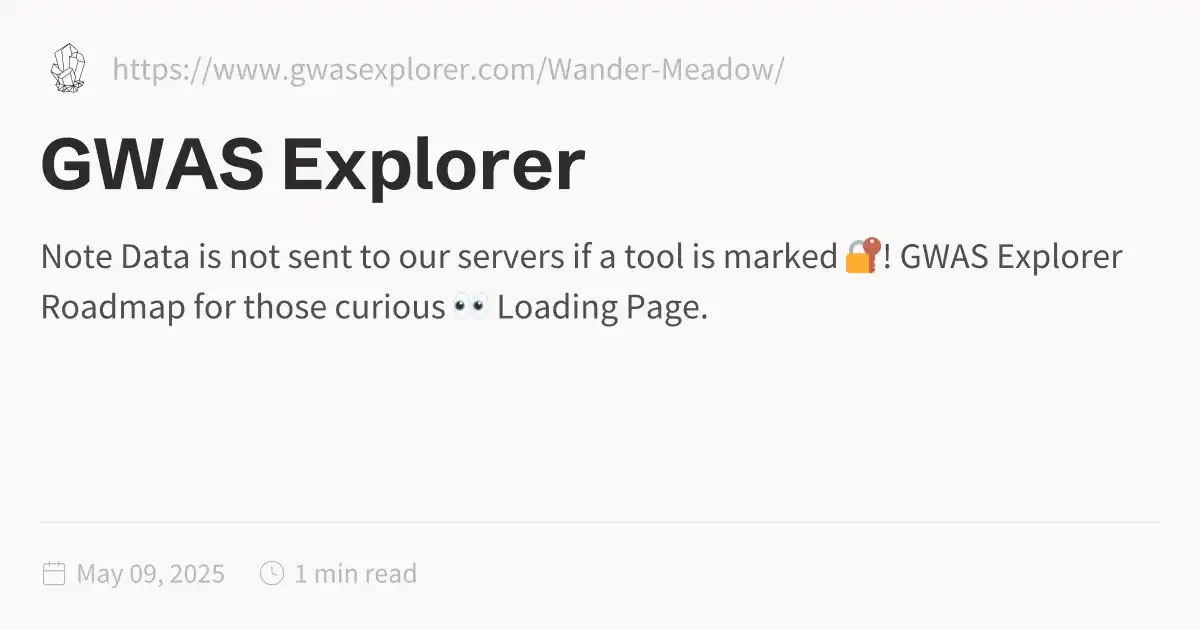
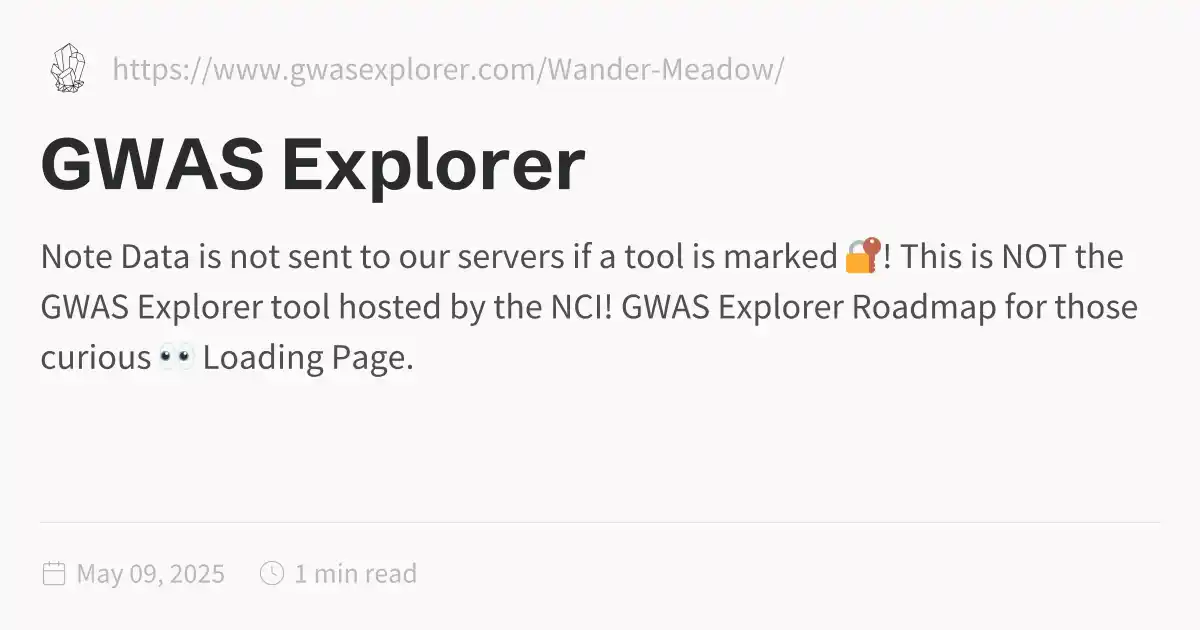
Update public folder - 2025-05-09\_2016

Changed region(s): [[0.0308, 0.4524, 0.9558, 0.5127], [0.0308, 0.5429, 0.3392, 0.6032], [0.74, 0.3619, 0.9558, 0.4222]]

diff --git a/Projects/index.html b/Projects/index.html
@@ -116,6 +116,6 @@ pre:hover > .expand-button {
   padding: 0 12px;
   font-size: 14px;
 }
[2 lines of base64/hex data omitted]
 </script><script type="module">function f(i,e){if(!i)return;function r(o){o.target===this&&(o.preventDefault(),o.stopPropagation(),e())}function t(o){o.key.startsWith("Esc")&&(o.preventDefault(),e())}i?.addEventListener("click",r),window.addCleanup(()=>i?.removeEventListener("click",r)),document.addEventListener("keydown",t),window.addCleanup(()=>document.removeEventListener("keydown",t))}function y(i){for(;i.firstChild;)i.removeChild(i.firstChild)}var h=class{constructor(e,r){this.container=e;this.content=r;this.setupEventListeners(),this.setupNavigationControls(),this.resetTransform()}isDragging=!1;startPan={x:0,y:0};currentPan={x:0,y:0};scale=1;MIN_SCALE=.5;MAX_SCALE=3;cleanups=[];setupEventListeners(){let e=this.onMouseDown.bind(this),r=this.onMouseMove.bind(this),t=this.onMouseUp.bind(this),o=this.resetTransform.bind(this);this.container.addEventListener("mousedown",e),document.addEventListener("mousemove",r),document.addEventListener("mouseup",t),window.addEventListener("resize",o),this.cleanups.push(()=>this.container.removeEventListener("mousedown",e),()=>document.removeEventListener("mousemove",r),()=>document.removeEventListener("mouseup",t),()=>window.removeEventListener("resize",o))}cleanup(){for(let e of this.cleanups)e()}setupNavigationControls(){let e=document.createElement("div");e.className="mermaid-controls";let r=this.createButton("+",()=>this.zoom(.1)),t=this.createButton("-",()=>this.zoom(-.1)),o=this.createButton("Reset",()=>this.resetTransform());e.appendChild(t),e.appendChild(o),e.appendChild(r),this.container.appendChild(e)}createButton(e,r){let t=document.createElement("button");return t.textContent=e,t.className="mermaid-control-button",t.addEventListener("click",r),window.addCleanup(()=>t.removeEventListener("click",r)),t}onMouseDown(e){e.button===0&&(this.isDragging=!0,this.startPan={x:e.clientX-this.currentPan.x,y:e.clientY-this.currentPan.y},this.container.style.cursor="grabbing")}onMouseMove(e){this.isDragging&&(e.preventDefault(),this.currentPan={x:e.clientX-this.startPan.x,y:e.clientY-this.startPan.y},this.updateTransform())}onMouseUp(){this.isDragging=!1,this.container.style.cursor="grab"}zoom(e){let r=Math.min(Math.max(this.scale+e,this.MIN_SCALE),this.MAX_SCALE),t=this.content.getBoundingClientRect(),o=t.width/2,n=t.height/2,c=r-this.scale;this.currentPan.x-=o*c,this.currentPan.y-=n*c,this.scale=r,this.updateTransform()}updateTransform(){this.content.style.transform=`translate(${this.currentPan.x}px, ${this.currentPan.y}px) scale(${this.scale})`}resetTransform(){this.scale=1;let e=this.content.querySelector("svg");this.currentPan={x:e.getBoundingClientRect().width/2,y:e.getBoundingClientRect().height/2},this.updateTransform()}},C=["--secondary","--tertiary","--gray","--light","--lightgray","--highlight","--dark","--darkgray","--codeFont"],E;document.addEventListener("nav",async()=>{let e=document.querySelector(".center").querySelectorAll("code.mermaid");if(e.length===0)return;E||=await import("https://cdnjs.cloudflare.com/ajax/libs/mermaid/11.4.0/mermaid.esm.min.mjs");let r=E.default,t=new WeakMap;for(let n of e)t.set(n,n.innerText);async function o(){for(let s of e){s.removeAttribute("data-processed");let a=t.get(s);a&&(s.innerHTML=a)}let n=C.reduce((s,a)=>(s[a]=window.getComputedStyle(document.documentElement).getPropertyValue(a),s),{}),c=document.documentElement.getAttribute("saved-theme")==="dark";r.initialize({startOnLoad:!1,securityLevel:"loose",theme:c?"dark":"base",themeVariables:{fontFamily:n["--codeFont"],primaryColor:n["--light"],primaryTextColor:n["--darkgray"],primaryBorderColor:n["--tertiary"],lineColor:n["--darkgray"],secondaryColor:n["--secondary"],tertiaryColor:n["--tertiary"],clusterBkg:n["--light"],edgeLabelBackground:n["--highlight"]}}),await r.run({nodes:e})}await o(),document.addEventListener("themechange",o),window.addCleanup(()=>document.removeEventListener("themechange",o));for(let n=0;n<e.length;n++){let v=function(){let g=l.querySelector("#mermaid-space"),m=l.querySelector(".mermaid-content");if(!m)return;y(m);let w=c.querySelector("svg").cloneNode(!0);m.appendChild(w),l.classList.add("active"),g.style.cursor="grab",u=new h(g,m)},M=function(){l.classList.remove("active"),u?.cleanup(),u=null},c=e[n],s=c.parentElement,a=s.querySelector(".clipboard-button"),d=s.querySelector(".expand-button"),p=window.getComputedStyle(a),L=a.offsetWidth+parseFloat(p.marginLeft||"0")+parseFloat(p.marginRight||"0");d.style.right=`calc(${L}px + 0.3rem)`,s.prepend(d);let l=s.querySelector("#mermaid-container");if(!l)return;let u=null;d.addEventListener("click",v),f(l,M),window.addCleanup(()=>{u?.cleanup(),d.removeEventListener("click",v)})}});
 </script><script src="https://cdn.jsdelivr.net/npm/katex@0.16.11/dist/contrib/copy-tex.min.js" type="application/javascript"></script><script src="../postscript.js" type="module"></script></html>

diff --git a/Projects/GWAS-Explorer.html b/Projects/GWAS-Explorer.html
@@ -1,5 +1,5 @@
 <!DOCTYPE html>
-<html lang="en"><head><title>GWAS Explorer</title><meta charset="utf-8"/><link rel="preconnect" href="https://fonts.googleapis.com"/><link rel="preconnect" href="https://fonts.gstatic.com"/><link rel="stylesheet" href="https://fonts.googleapis.com/css2?family=Schibsted Grotesk:wght@400;700&amp;family=Source Sans Pro:ital,wght@0,400;0,600;1,400;1,600&amp;family=IBM Plex Mono:wght@400;600&amp;display=swap"/><link rel="preconnect" href="https://cdnjs.cloudflare.com" crossorigin="anonymous"/><meta name="viewport" content="width=device-width, initial-scale=1.0"/><meta name="og:site_name" content="Wander Meadow"/><meta property="og:title" content="GWAS Explorer"/><meta property="og:type" content="website"/><meta name="twitter:card" content="summary_large_image"/><meta name="twitter:title" content="GWAS Explorer"/><meta name="twitter:description" content="Note Data is not sent to our servers if a tool is marked 🔐! GWAS Explorer Roadmap for those curious 👀 Loading Page."/><meta property="og:description" content="Note Data is not sent to our servers if a tool is marked 🔐! GWAS Explorer Roadmap for those curious 👀 Loading Page."/><meta property="og:image:alt" content="Note Data is not sent to our servers if a tool is marked 🔐! GWAS Explorer Roadmap for those curious 👀 Loading Page."/><meta property="twitter:domain" content="https://www.gwasexplorer.com/Wander-Meadow/"/><meta property="og:url" content="https://https//www.gwasexplorer.com/Wander-Meadow/Projects/GWAS-Explorer"/><meta property="twitter:url" content="https://https//www.gwasexplorer.com/Wander-Meadow/Projects/GWAS-Explorer"/><link rel="icon" href="../static/icon.png"/><meta name="description" content="Note Data is not sent to our servers if a tool is marked 🔐! GWAS Explorer Roadmap for those curious 👀 Loading Page."/><meta name="generator" content="Quartz"/><link href="../index.css" rel="stylesheet" type="text/css" spa-preserve/><style>.expand-button {
+<html lang="en"><head><title>GWAS Explorer</title><meta charset="utf-8"/><link rel="preconnect" href="https://fonts.googleapis.com"/><link rel="preconnect" href="https://fonts.gstatic.com"/><link rel="stylesheet" href="https://fonts.googleapis.com/css2?family=Schibsted Grotesk:wght@400;700&amp;family=Source Sans Pro:ital,wght@0,400;0,600;1,400;1,600&amp;family=IBM Plex Mono:wght@400;600&amp;display=swap"/><link rel="preconnect" href="https://cdnjs.cloudflare.com" crossorigin="anonymous"/><meta name="viewport" content="width=device-width, initial-scale=1.0"/><meta name="og:site_name" content="Wander Meadow"/><meta property="og:title" content="GWAS Explorer"/><meta property="og:type" content="website"/><meta name="twitter:card" content="summary_large_image"/><meta name="twitter:title" content="GWAS Explorer"/><meta name="twitter:description" content="Note Data is not sent to our servers if a tool is marked 🔐! This is NOT the GWAS Explorer tool hosted by the NCI! GWAS Explorer Roadmap for those curious 👀 Loading Page."/><meta property="og:description" content="Note Data is not sent to our servers if a tool is marked 🔐! This is NOT the GWAS Explorer tool hosted by the NCI! GWAS Explorer Roadmap for those curious 👀 Loading Page."/><meta property="og:image:alt" content="Note Data is not sent to our servers if a tool is marked 🔐! This is NOT the GWAS Explorer tool hosted by the NCI! GWAS Explorer Roadmap for those curious 👀 Loading Page."/><meta property="twitter:domain" content="https://www.gwasexplorer.com/Wander-Meadow/"/><meta property="og:url" content="https://https//www.gwasexplorer.com/Wander-Meadow/Projects/GWAS-Explorer"/><meta property="twitter:url" content="https://https//www.gwasexplorer.com/Wander-Meadow/Projects/GWAS-Explorer"/><link rel="icon" href="../static/icon.png"/><meta name="description" content="Note Data is not sent to our servers if a tool is marked 🔐! This is NOT the GWAS Explorer tool hosted by the NCI! GWAS Explorer Roadmap for those curious 👀 Loading Page."/><meta name="generator" content="Quartz"/><link href="../index.css" rel="stylesheet" type="text/css" spa-preserve/><style>.expand-button {
   position: absolute;
   display: flex;
   float: right;
@@ -116,7 +116,7 @@ pre:hover > .expand-button {
   padding: 0 12px;
   font-size: 14px;
 }
[2 lines of base64/hex data omitted]
 <div class="callout-title">
                   <div class="callout-icon"></div>
                   <div class="callout-title-inner"><p>Note</p></div>
@@ -126,6 +126,7 @@ pre:hover > .expand-button {
 <div class="callout-content-inner">
 <ul>
 <li>Data is not sent to our servers if a tool is marked 🔐!</li>
+<li>This is <strong>NOT</strong> the GWAS Explorer tool hosted by the NCI!</li>
 <li><a href="../Projects/GWAS-Explorer-Roadmap" class="internal alias" data-slug="Projects/GWAS-Explorer-Roadmap">GWAS Explorer Roadmap</a> for those curious 👀</li>
 </ul>
 </div>
